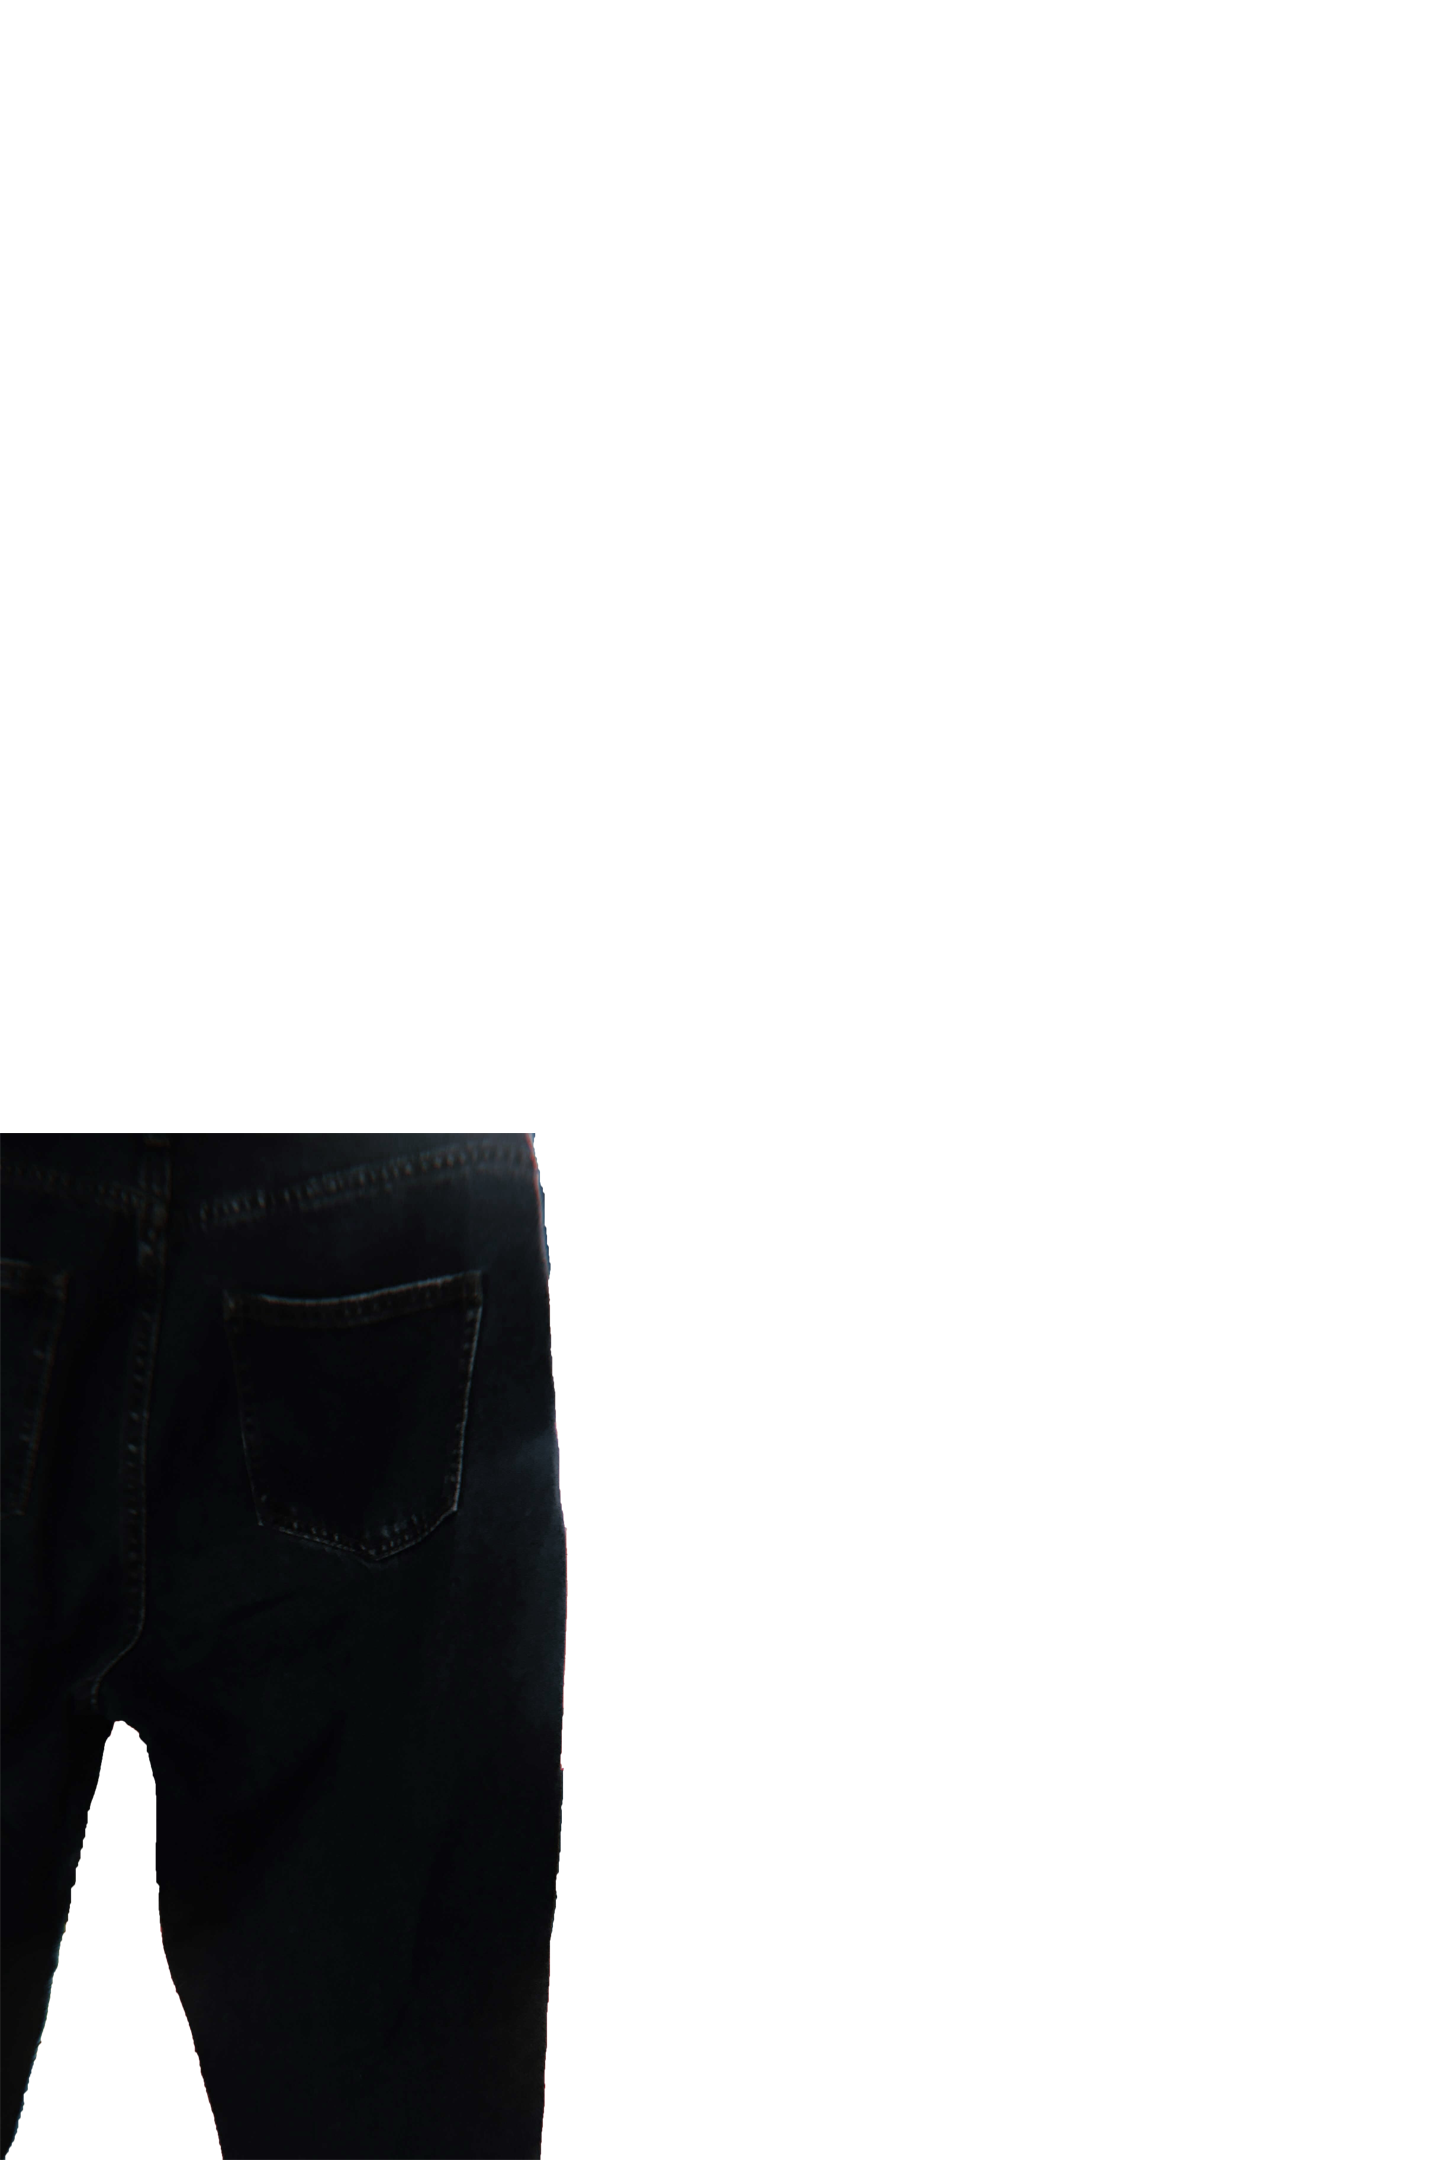
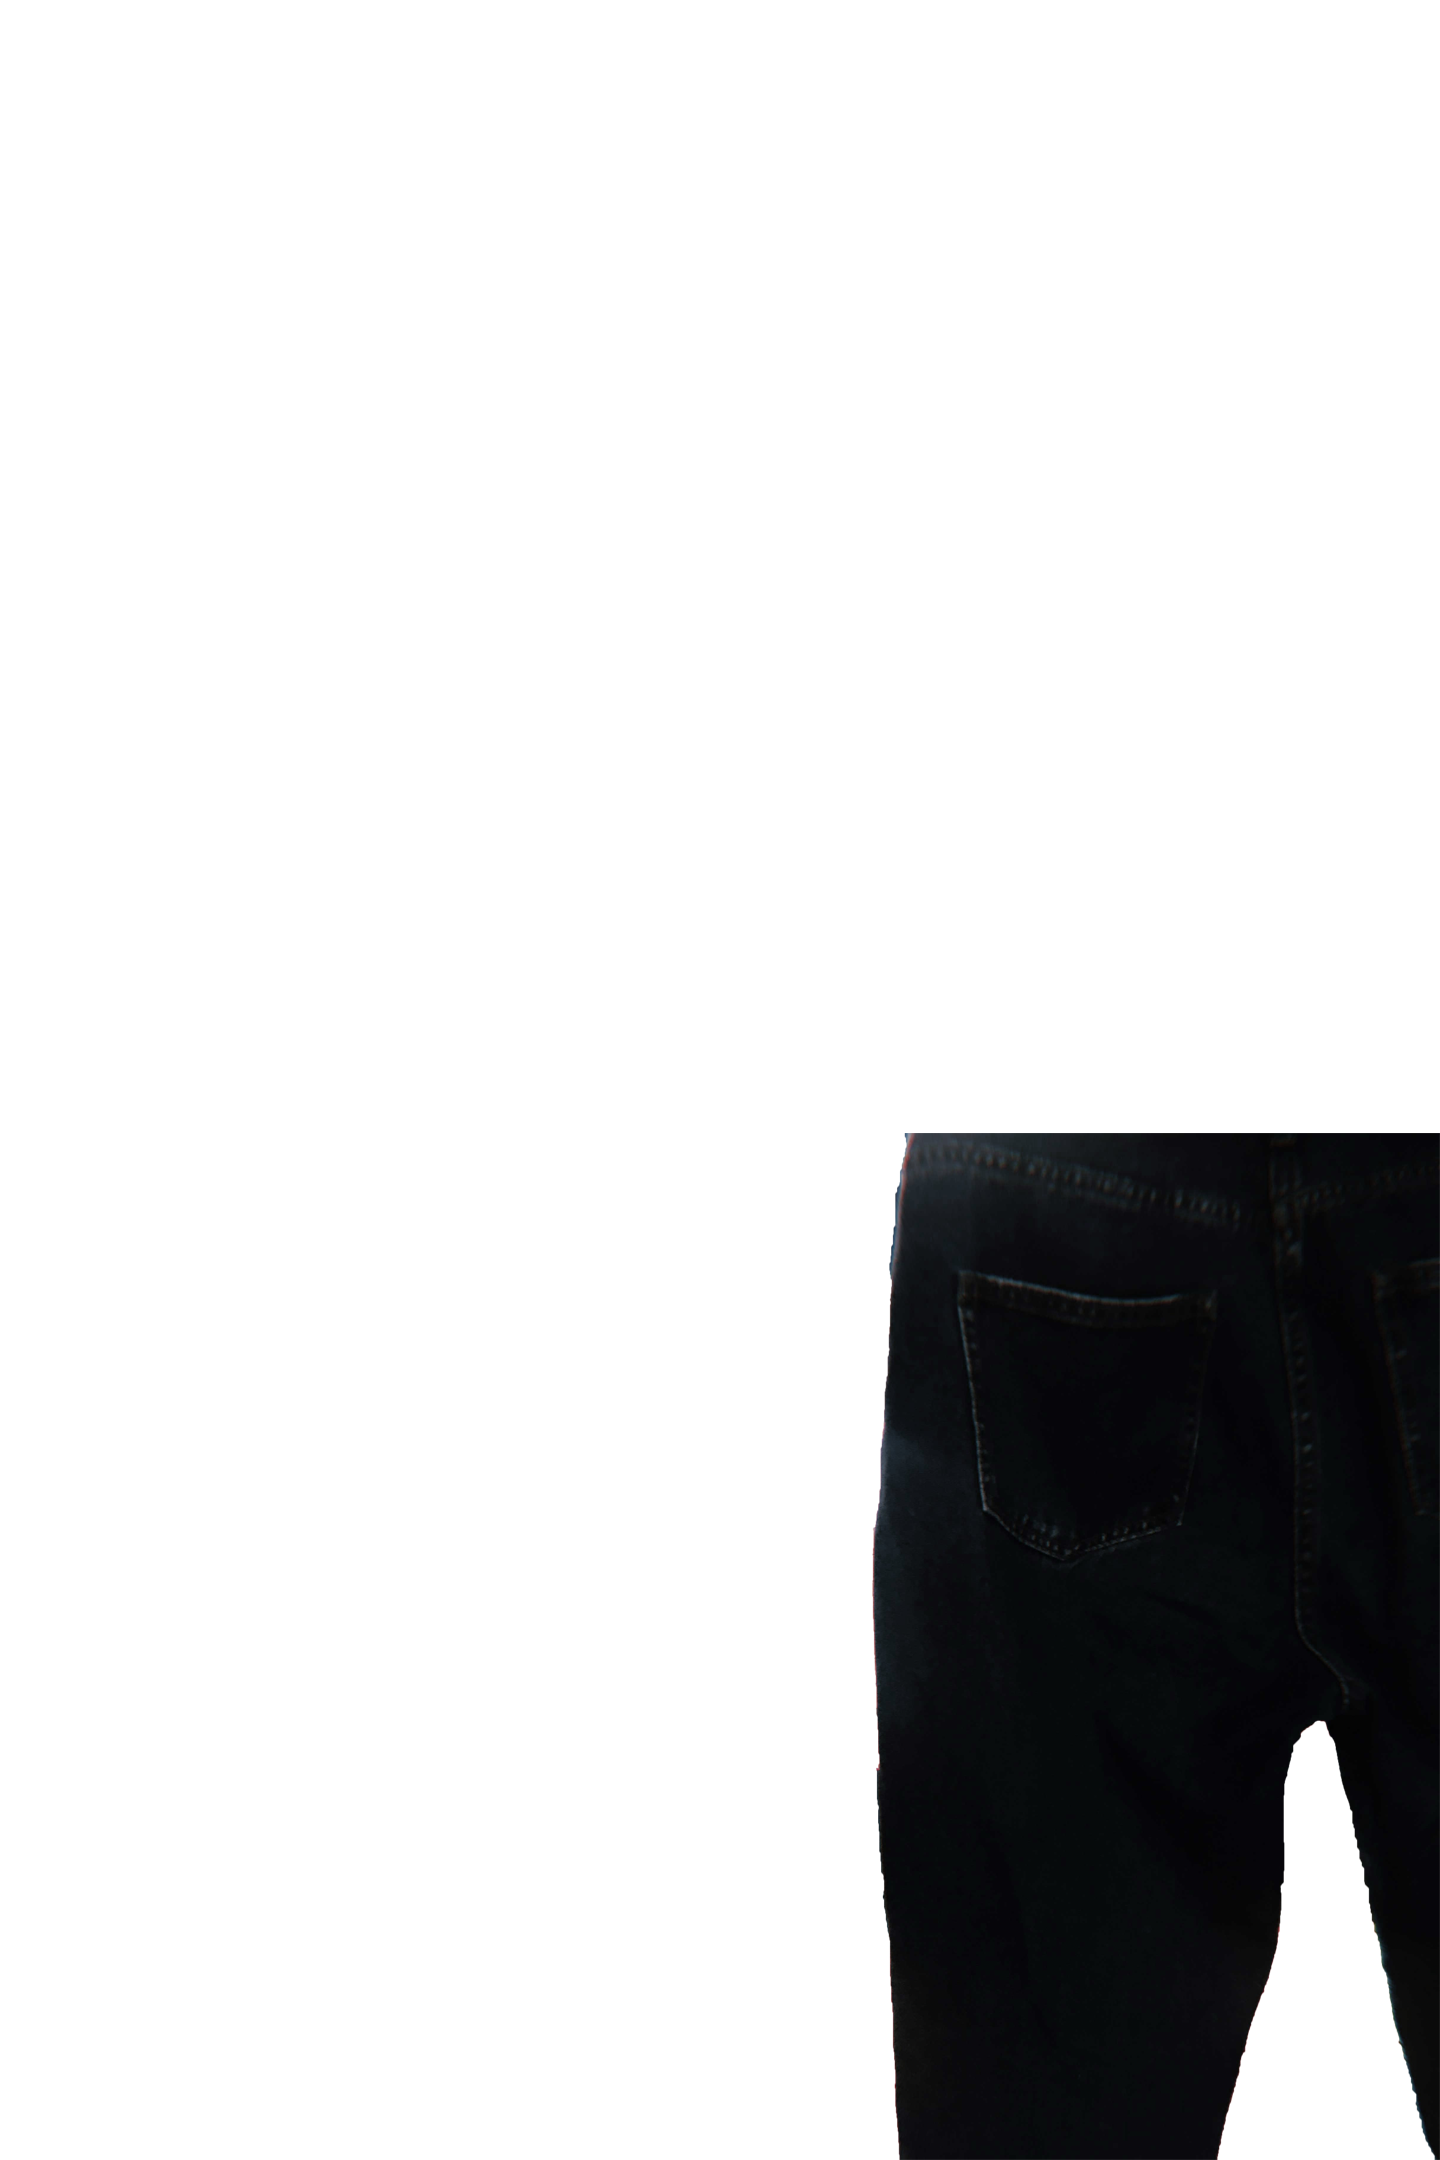
Newly updated versions
Used cutouts of jeans instead. Falling shows a progression of time

diff --git a/projects/time-capsule/template2.html b/projects/time-capsule/template2.html
@@ -5,6 +5,7 @@
 
     <link href="style2.css" type="text/css" rel="stylesheet">
 
+
 </head>
 <body>
 
@@ -19,33 +20,33 @@
 
 
 		<div class="one">
-			<img src ="1.png" style="width: 100%; height: 120%;">
+			<img src ="10.png" style="width: 100%; height: 130%;">
 		</div>
 
 		<div class="two">
-			<img src ="3.png" style="width: 50%; height: 50%;">
+			<img src ="4.png" style="width: 100%; height: 120%;">
 		</div>
 	
 
 		<div class="three">
-			<img src ="4.png" style="width: 60%; height: 100%;">
+			<img src ="9.png" style="width: 90%; height: 80%;">
 		</div>
 
 		<div class="four">
-			<img src ="10.png" style="width: 100%; height: 120%;">
+			<img src ="1.png" style="width: 100%; height: 120%;">
 		</div>
 
 		<div class="five">
-			<img src ="5.png" style="width: 80%; height: 80%;">
+			<img src ="3.png" style="width: 80%; height: 80%;">
 		</div>
 
 
 		<div class="six">
-			<img src ="9.png" style="width: 90%; height: 80%;">
+			<img src ="5.png" style="width: 80%; height: 100%;">
 		</div>
 
 		<div class="seven">
-			<img src ="2.png" style="width: 90%; height: 80%;">
+			<img src ="2.png" style="width: 100%; height: 100%;">
 		</div>
 
 		<div class="eight">

diff --git a/projects/time-capsule/style2.css b/projects/time-capsule/style2.css
@@ -1,7 +1,7 @@
 body{
 	height: 600%;
 	width: 100%;
-	background: white;
+	background-color: white; 
 	font-family: neue-haas-grotesk-display, sans-serif;
     font-style: normal;
     font-weight: 500;
@@ -25,59 +25,60 @@ body{
 }
 
 .one{
-	position: absolute;
+	position: relative;
 	top: auto;
-	left: 20%;
+	left: -5%;
 	right: 20%;
-	margin-top: 150%;
+	margin-top: 110%;
 }
 
 .two{
 	position: absolute;
 	top: auto;
-	left: 0%;
-	margin-top: 190%;
+	left: 40%;
+	margin-top: -20%;
+
 }
 
 .three{
 	position: relative;
 	top: auto;
-	left: 40%;
-	margin-top: 220%;
+	left: -10%;
+	margin-top: -10%;
 }
 
 .four{
-	position: relative;
-	top: auto;
-	left: -20%;
-	margin-top: -100%;
-}
-
-.five{
 	position: relative;
 	top: auto;
 	left: 20%;
 	margin-top: -30%;
 }
 
+.five{
+	position: relative;
+	top: auto;
+	left: -10%;
+	margin-top: -100%;
+}
+
 .six{
 	position: relative;
 	top: auto;
-	left: 0%;
-	margin-top: -90%;
+	left: 20%;
+	margin-top: -40%;
 }
 
 .seven{
 	position: relative;
 	top: auto;
-	left: 10%;
-	margin-top: -50%;
+	left: -20%;
+	margin-top: -70%;
 }
 
 .eight{
 	position: relative;
 	top: auto;
-	left: 0%;
+	left: 10%;
 	margin-top: -100%;
 }
 

diff --git a/projects/time-capsule/index.html b/projects/time-capsule/index.html
@@ -15,7 +15,7 @@
 
 	<br>
 
-	<a href="pic2.html"><button> <font face="futura"; text-align: centre; font size="4" color="#020271">   </button></a>
+	<a href="template2.html"><button> <font face="futura"; text-align: centre; font size="4" color="#020271">   </button></a>
 
 </body>
 </html>
